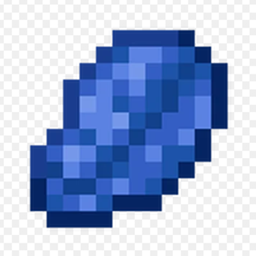
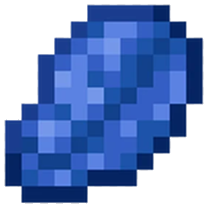
Fix distorted diamond/lapis art: real transparency, tight crop
The uploaded PNGs were actually baseline JPEGs with a baked-in
checkerboard "transparency" pattern on a wide, off-center canvas
(840x289 for the diamond). Every square icon on the site (lore
cards, ore comparison, floating background gems) stretched that
canvas into a square box, squashing the gem horizontally.

Detect and strip the checkerboard via connected-component flood
fill from the border, crop to the gem's real bounding box, and
re-save as true RGBA PNGs. Also add object-fit: contain to the
icon rules as a safety net against future aspect-ratio mismatches.

diff --git a/css/style.css b/css/style.css
@@ -383,6 +383,7 @@ img { max-width: 100%; display: block; }
 .ore-compare__img {
   width: 84px;
   height: 84px;
+  object-fit: contain;
   image-rendering: pixelated;
 }
 .ore-compare__label {
@@ -424,6 +425,7 @@ img { max-width: 100%; display: block; }
   right: -12px;
   width: 38px;
   height: 38px;
+  object-fit: contain;
   image-rendering: pixelated;
   border-radius: 50%;
   background: var(--paper);
